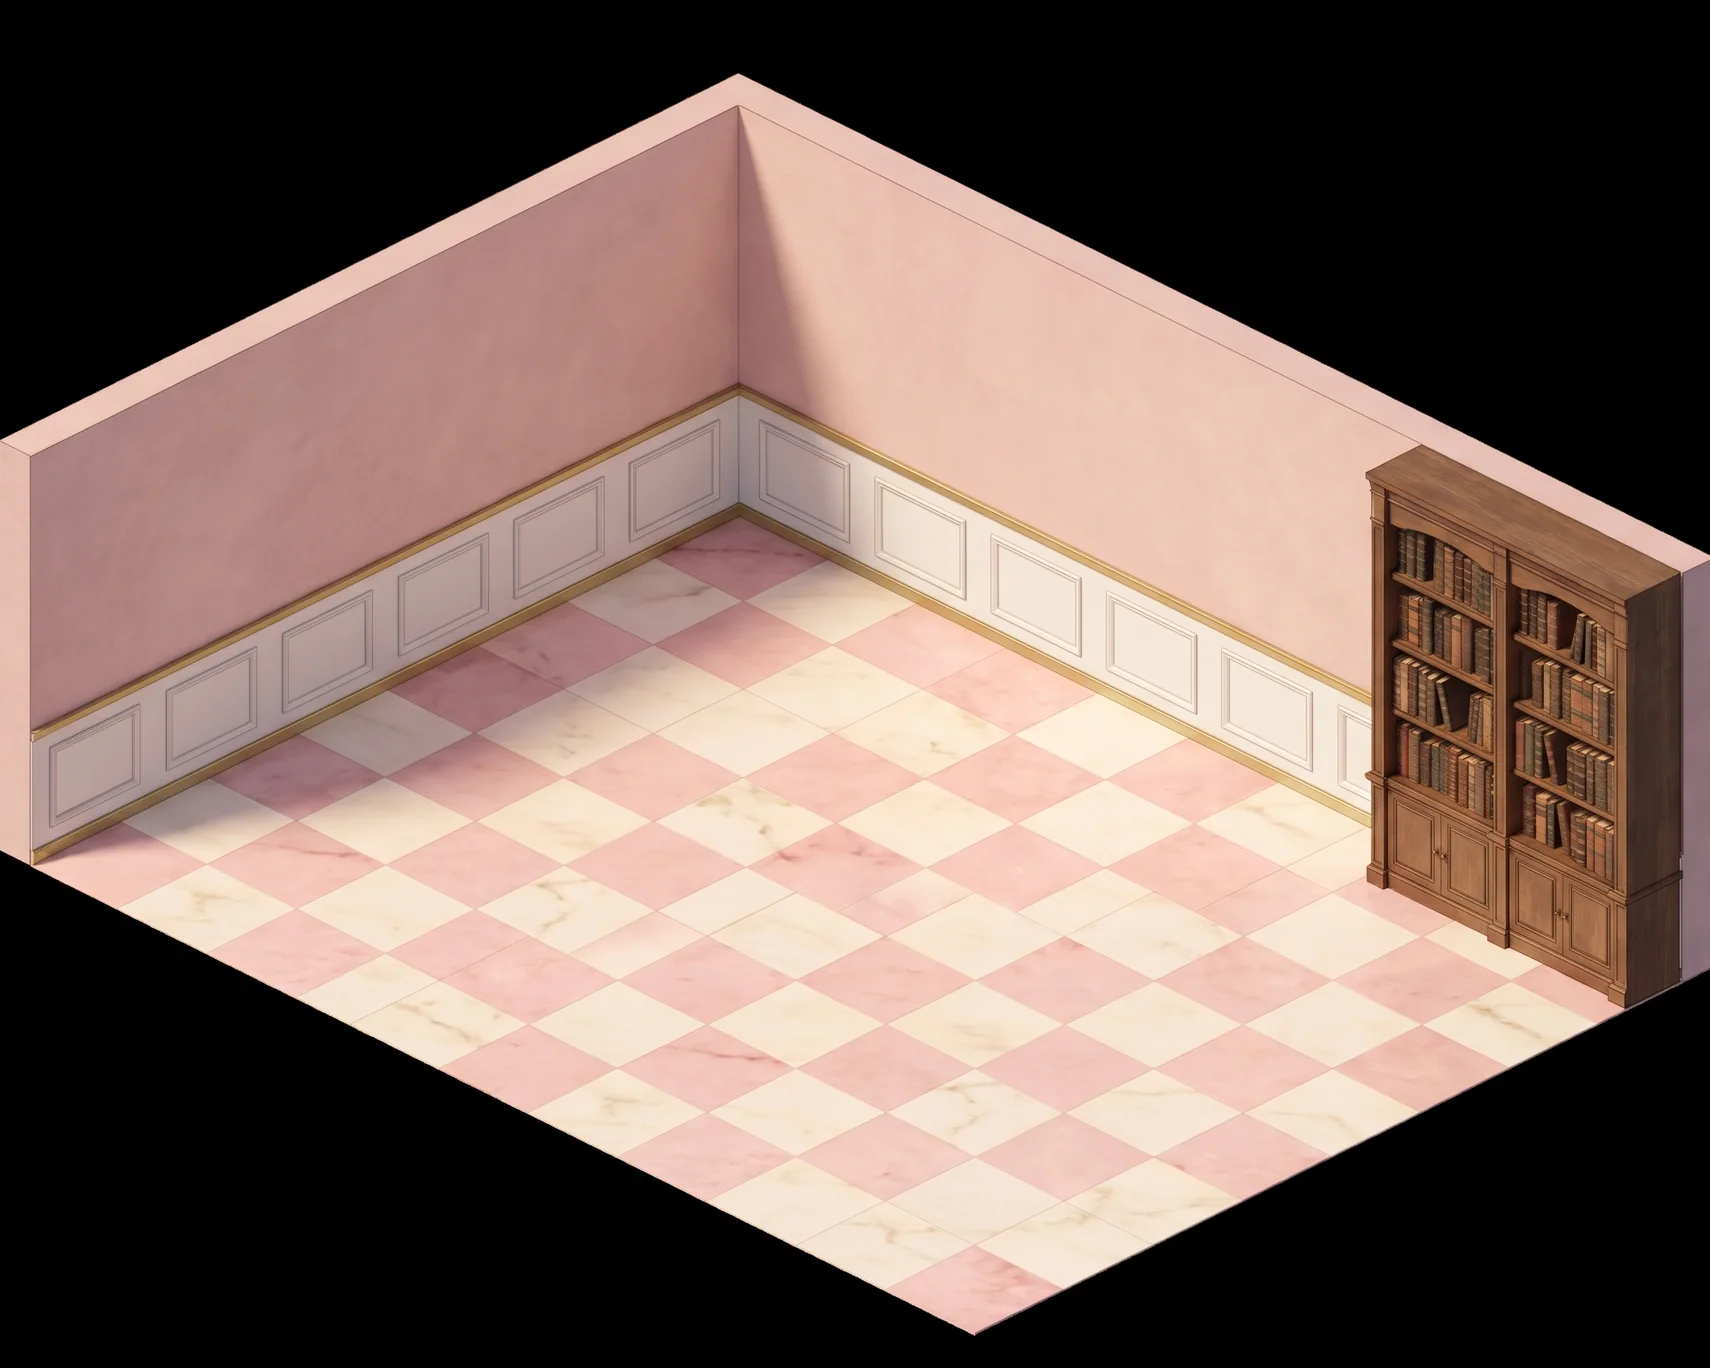
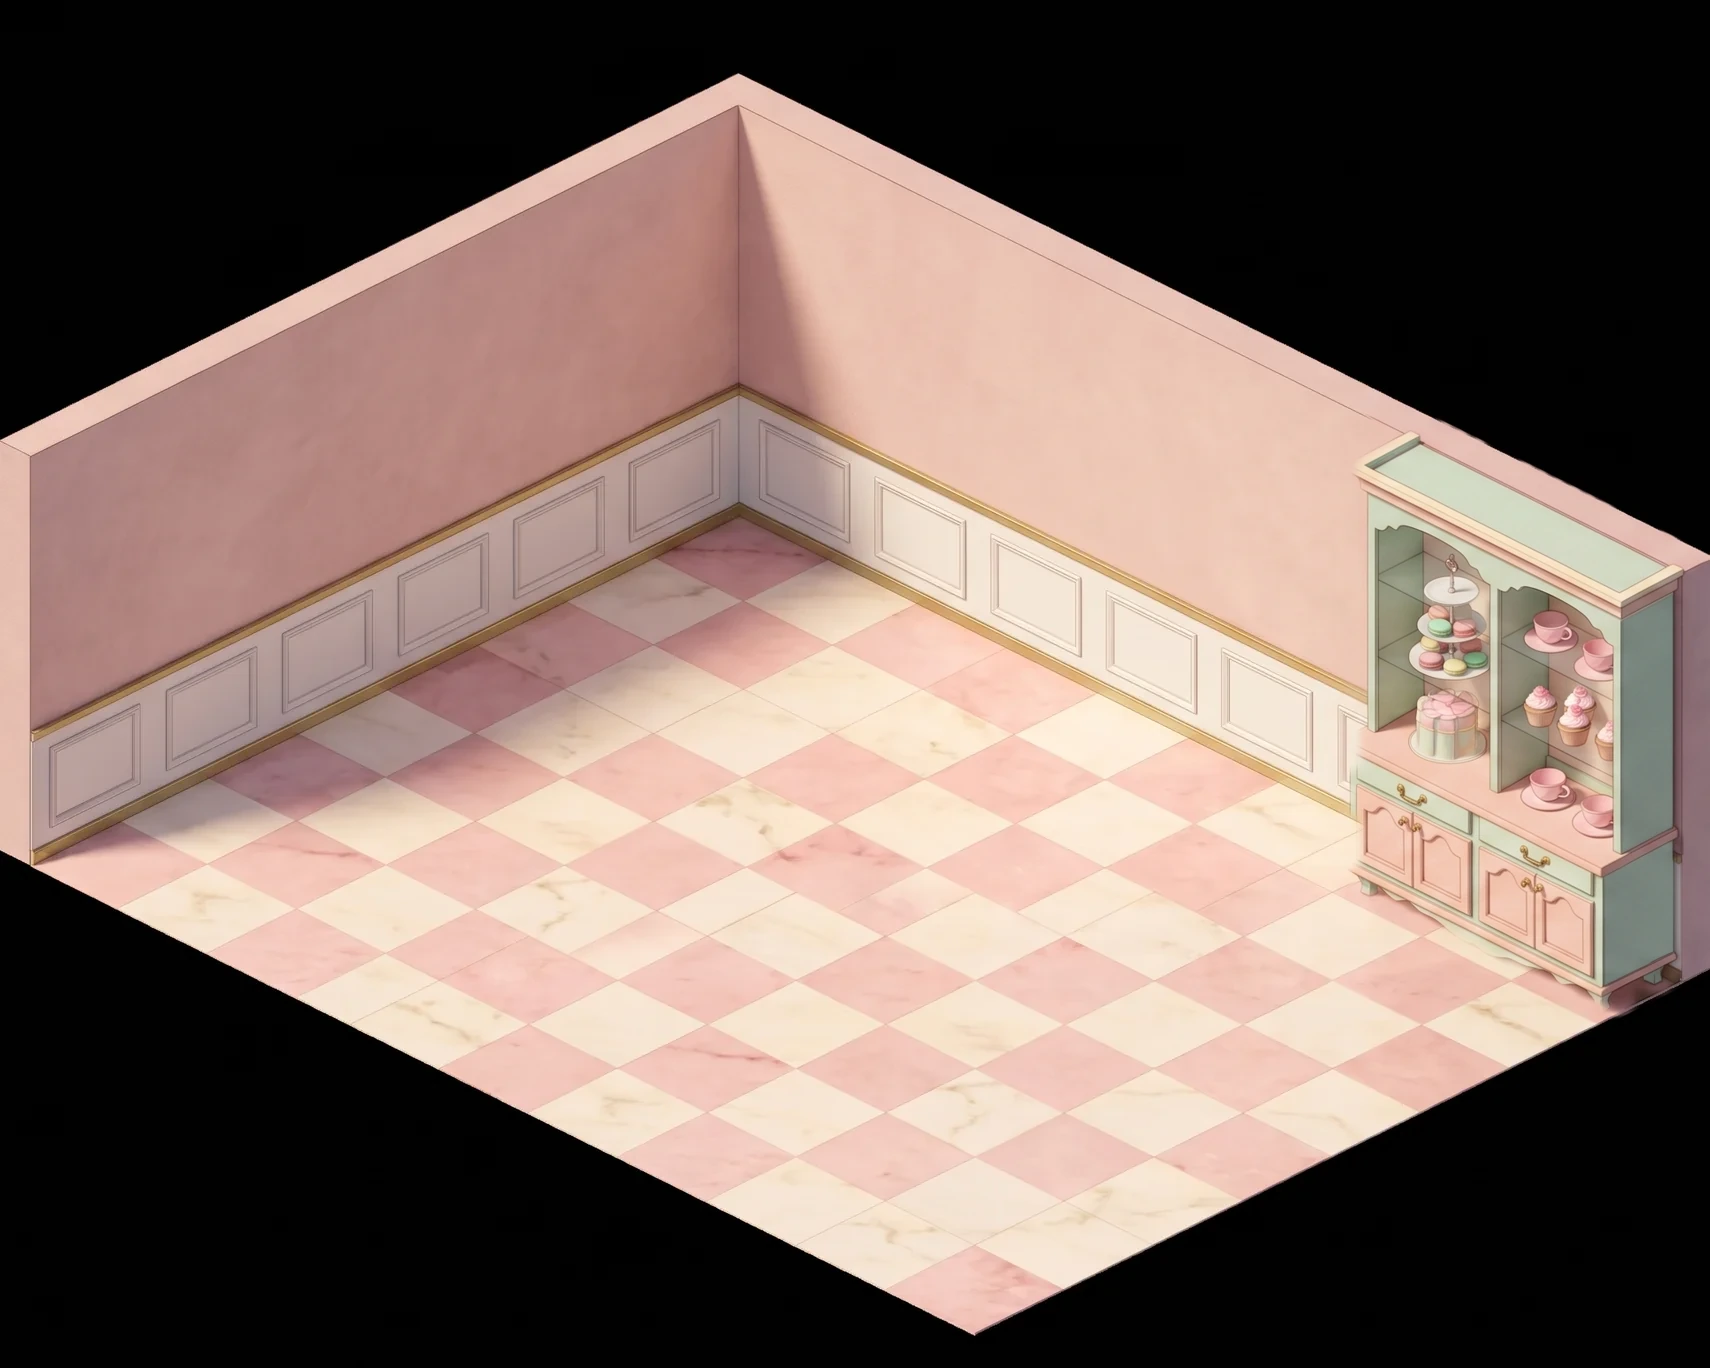
Dessert Parlor and VR Arena fit their neighbours (QA's every-room review aa3a99b, LEAD's art job)
Dessert: the dark library bookcase painted into the parlor (the old Speakeasy door, which never opens) is now a pastel mint and
blush patisserie hutch of cakes and teacups. Only that region of dsw_t1 changed, blended in, and the rest is pixel-identical.
The gold Arched Mirror (de_arch, id kept) is now the Flower Mirror: a scalloped blush-pink frame with a pastel flower crown,
same footprint and stance.

VR Arena: the white clinical shell (vrw_t1) is repainted dark navy panels with the cyan neon line, a dark hex floor with glowing
cyan lines and a glowing launch ring, the same geometry (silhouette IoU 0.989). The room is marked dark like the Arcade and
Rhythm Room, the drawn fallback skin matches, and the description is new. Pods, desk and screens stay readable.

All on Unlimited. Renders: shots/rooms3/ (not committed).

Changed region(s): [[0.7749, 0.307, 0.9918, 0.7368]]

diff --git a/quest-board/app/src/27b_skins.js b/quest-board/app/src/27b_skins.js
@@ -22,9 +22,9 @@ function acWall(w,h){var o='<rect width="'+w+'" height="'+h+'" fill="#17132a"/>'
 /* rhythm: a floor that pulses */
 function rhFloor(U,W,D){var o='<rect width="'+U*W+'" height="'+U*D+'" fill="#120a20"/>',c=["#7df9ff","#ff5ad8","#b98cff"];for(var i=0;i<W;i++)for(var j=0;j<D;j++)o+='<rect class="rhl" style="animation-delay:-'+(((i*3+j*5)%9)*.4).toFixed(1)+'s" x="'+(U*i+2)+'" y="'+(U*j+2)+'" width="'+(U-4)+'" height="'+(U-4)+'" fill="'+c[(i+j)%3]+'"/>';return o}
 function rhWall(w,h){var o='<rect width="'+w+'" height="'+h+'" fill="#23123a"/>';for(var y=0,r=0;y<h;y+=12,r++)for(var x=r%2?-6:0;x<w;x+=12)o+='<path d="M'+x+' '+(y+12)+'L'+(x+6)+' '+y+'L'+(x+12)+' '+(y+12)+'Z" fill="'+(r%2?"#2d1a4c":"#351f58")+'"/>';return o+'<rect y="'+(h-5)+'" width="'+w+'" height="3" fill="#7df9ff"/>'}
-/* vr: the one bright, clean room in the building */
-function vrFloor(U,W,D){var o='<rect width="'+U*W+'" height="'+U*D+'" fill="#eef5fa"/>',r=13,dx=r*1.732,dy=r*1.5;for(var j=0,y=0;y<U*D+r;y+=dy,j++)for(var x=j%2?dx/2:0;x<U*W+r;x+=dx){var p='';for(var a=0;a<6;a++){var t=Math.PI/3*a+Math.PI/6;p+=(a?'L':'M')+(x+r*Math.cos(t)).toFixed(1)+' '+(y+r*Math.sin(t)).toFixed(1)}o+='<path d="'+p+'Z" fill="none" stroke="#bcd8e8" stroke-width="1"/>'}return '<clipPath id="vrfc"><rect width="'+U*W+'" height="'+U*D+'"/></clipPath><g clip-path="url(#vrfc)">'+o+'</g>'}
-function vrWall(w,h){var o='<rect width="'+w+'" height="'+h+'" fill="#e4edf4"/>';for(var x=40;x<w;x+=52)o+='<rect x="'+x+'" y="0" width="2" height="'+h+'" fill="#c9d9e5"/>';return o+'<rect y="'+(h*.5)+'" width="'+w+'" height="4" fill="#58d6ff"/>'}
+/* vr: dark panels and cyan neon like its neighbours, the Arcade and the Rhythm Room (QA's every-room review, LEAD 2026-11-07) */
+function vrFloor(U,W,D){var o='<rect width="'+U*W+'" height="'+U*D+'" fill="#1f2734"/>',r=13,dx=r*1.732,dy=r*1.5;for(var j=0,y=0;y<U*D+r;y+=dy,j++)for(var x=j%2?dx/2:0;x<U*W+r;x+=dx){var p='';for(var a=0;a<6;a++){var t=Math.PI/3*a+Math.PI/6;p+=(a?'L':'M')+(x+r*Math.cos(t)).toFixed(1)+' '+(y+r*Math.sin(t)).toFixed(1)}o+='<path d="'+p+'Z" fill="none" stroke="#2f6f86" stroke-width="1"/>'}return '<clipPath id="vrfc"><rect width="'+U*W+'" height="'+U*D+'"/></clipPath><g clip-path="url(#vrfc)">'+o+'</g>'}
+function vrWall(w,h){var o='<rect width="'+w+'" height="'+h+'" fill="#1c2233"/>';for(var x=40;x<w;x+=52)o+='<rect x="'+x+'" y="0" width="2" height="'+h+'" fill="#2a3346"/>';return o+'<rect y="'+(h*.5)+'" width="'+w+'" height="4" fill="#58d6ff"/>'}
 /* bowling: retro carpet, atomic shapes */
 function bwFloor(U,W,D){var R=lfSeed(12),o='<rect width="'+U*W+'" height="'+U*D+'" fill="#27305a"/>',c=["#f7b733","#e8505b","#49c6c6"];for(var i=0;i<W*D*1.4;i++){var x=R()*U*W,y=R()*U*D,k=c[Math.floor(R()*3)];o+='<g transform="translate('+x.toFixed(0)+','+y.toFixed(0)+') rotate('+Math.floor(R()*180)+')"><ellipse rx="8" ry="2.5" fill="none" stroke="'+k+'" stroke-width="1.3"/><ellipse rx="8" ry="2.5" fill="none" stroke="'+k+'" stroke-width="1.3" transform="rotate(60)"/><circle r="1.8" fill="'+k+'"/></g>'}return o}
 function bwWall(w,h){return '<rect width="'+w+'" height="'+h+'" fill="#1f2a4d"/><rect y="'+(h*.7)+'" width="'+w+'" height="'+(h*.3)+'" fill="#c9a24a"/><rect y="'+(h*.7)+'" width="'+w+'" height="4" fill="#e8505b"/><rect y="'+(h*.7+8)+'" width="'+w+'" height="3" fill="#49c6c6"/>'}
@@ -115,10 +115,11 @@ autoRoom("boba",{name:"Boba Shop",lv:16,cost:1500,coin:12,buy:1,startLv:16,step:
  items:[PL("bo_ctr","Pastel Counter",UP_S,"bbx_ctr",2.0,.2,3.4,1.1,1,"Where the drinks get handed over.",{cust:[[3.6,2.3,-1]]}),PL("bo_urn","Tea Urns",UP_S,"bbx_urn",5.6,.2,1.5,.8,1,"Black, green, oolong."),PL("bo_pearl","Pearl Cooker",UP_S,"bbx_pearl",7.2,.2,1.1,.8,1,"Slow simmer, brown sugar."),["bo_scr","Menu Screen",UP_S,"","",0,0,0,"Cycles through today's drinks.",{fx:function(C){C.walls.push(lfFaceY(2.6,0,128,scrMenu(["Milk Tea","Taro","Matcha","Mango","Lychee","Thai Tea","Brown Sugar","Oolong"],LF.U*2.6,50)))}}],PL("bo_shelf","Tea Jar Wall",UP_S,"bbx_shelf",.15,.25,1.5,.6,1,"Every jar is a different leaf."),PL("bo_bench","Window Bench",UP_S,"bbx_bench",.2,2.4,1.1,3.4,0,"A long mint bench under the window.",{cust:[[1.8,4.2,-1]]}),PL("bo_table","Cafe Table",UP_S,"bbx_cafe",2.4,3.9,1.6,1.6,0,"Two stools and two drinks.",{cust:[[4.4,4.9,-1]]}),["bo_staff","Hire a Barista",UP_M,"","",0,0,0,"Remembers everyone's sugar level."],PL("bo_table2","Second Table",UP_S,"bbx_table",5.8,4.8,1.8,1.8,0,"Room for one more group.",{cust:[[8.1,5.7,-1]]}),PL("bo_plant","Plant Shelf",UP_S,"bbx_plant",.06,1.2,.3,1.6,1,"Trailing plants and tea jars on a wall shelf. Good for photos.",{o:{dy:-46,h:1,nosh:1,nob:1}}),/* QA: it is a wall shelf (brackets), so it hangs and casts no floor shadow */PL("bo_shake","Shaker Station",UP_M,"bbx_shake",7.05,2.39,1.3,1,1,"The noise brings people in."),PL("bo_art","Tea Prints",UP_S,"bbx_art",6.0,.05,1.8,.05,1,"Two small prints above the urns.",{o:{dy:-66,nosh:1,nob:1,h:1}}),PL("bo_neon","Neon Cup Sign",UP_S,"bbx_neon",.3,.05,1.2,.1,1,"Very pink.",{o:{dy:-80,h:1,nosh:1,dk:60}})/* high over the tea jars: the left wall's front is the side door and the back wall's end the stairs */,/* QA (Cal's use check): at the front edge it faced out of the room; against the back wall after the pearl cooker */PL("bo_fridge","Bottle Fridge",UP_S,"bbx_fridge",8.45,.2,0.9,0.8,1,"Grab and go milk tea.",{cust:[[8.9,1.7,-1]]}),PL("bo_pickup","Pickup Shelf",UP_S,"bbx_pickup",8.3,2.4,1.2,0.7,0,"Online orders, bagged and waiting.",{cust:[[8.9,3.8,-1]]}),["bo_dess","Open the Dessert Parlor",2000,"","",0,0,0,"Stairs up to a new room above.",{g:"Expansion",opens:"dessert",lv:22}]]});
 /* ---- dessert: a pink parlor, tree in the middle ---- */
 autoRoom("dessert",{name:"Dessert Parlor",lv:1,startLv:22,step:1,wall:"#f9dfe6",wain:"#fff8f2",acc:"#c79aff",fl:"t",size:[[12,9]],layout:[10,8],shell:0,coin:15,guests:3,group:"Dessert",desc:"Shaved ice, mochi and pastel everything, around a tree that is always in bloom.",
- /* the painted parlor (dsw_t1) is the room's floor and walls, its bookcase the hidden door; the drawn skin only without it */
+ /* the painted parlor (dsw_t1) is the room's floor and walls; the dark library bookcase (the old Speakeasy door, which never
+    opens now) is repainted as a pastel patisserie hutch (QA's every-room review, LEAD 2026-11-07); the drawn skin only without it */
  draw:function(C){if(window.LFSPR&&LFSPR.dsw_t1)C.shellK="dsw_t1";else roomSkin(C,{floor:dsFloor,back:dsWall,left:dsWall})},
  help:{k:"New room",t:"The Dessert Parlor is open",sub:"Pastel, pretty and right above the boba. Everyone takes a photo here.",pts:[["Build the counter","Cakes in a case bring people in."],["Then the room","The tree and the booth are the reason they stay."]]},
- items:[PL("de_case","Cake Case",UP_S,"dsx_case",2.4,.2,2.0,1.1,1,"Everything in it is lit like jewelry.",{cust:[[3.4,2.2,-1]]}),PL("de_bar","Pastry Counter",UP_M,"dsx_mixer",4.6,.2,2.9,1.0,1,"Macarons made where you can watch."),PL("de_bing","Bingsu Machine",UP_S,"dsx_bing",.3,.3,1.0,.8,1,"Snow, but sweet."),PL("de_booth","Pink Velvet Booth",UP_M,"dsx_booth",.25,3.0,1.4,3.2,0,"The best seat in the parlor.",{cust:[[2.2,4.6,-1]]}),PL("de_table","Marble Table",UP_S,"dsx_table",2.3,6.0,1.6,1.5,0,"Two chairs and a shared dessert.",{cust:[[4.4,6.8,-1]]}),PL("de_arch","Arched Mirror",UP_S,"dsx_arch",.1,.9,.1,1.5,0,"Every selfie in the building."),/* QA (Cal's use check): the towers crowded the bookcase (the hidden door); now beside the counter's end */PL("de_tower","Macaron Tower",UP_S,"dsx_tower",6.9,2.75,.9,.9,1,"Taller than it should be."),PL("de_cake","Cake Stand",UP_S,"dsx_cake",7.85,2.7,.8,.8,0,"Three tiers, all gone by noon."),PL("de_matcha","Matcha Bar",UP_M,"dsx_matcha",7.6,5.4,1.8,1.5,0,"Whisked in front of you.",{cust:[[7.0,7.2,1]]}),PL("de_shelf","Teacup Shelf",UP_S,"dsx_shelf",.05,3.4,.05,2.0,0,"Pastel cups above the booth.",{o:{dy:-68,nosh:1,nob:1,h:1}}),PL("de_lantern","Blossom Garland",UP_S,"dsx_lantern",.3,.08,2.8,.05,1,"Soft and pink along the wall.",{o:{dy:-74,h:1,nosh:1,dk:60}}),PL("de_sakura","Sakura Tree",UP_L,"dsx_sakura",4.5,3.0,1.8,1.8,0,"A blossom tree in the middle of the room. Petals never stop.",{cust:[[4.2,5.3,1],[6.8,4.2,-1]],splash:"A sakura tree in the middle of the parlor. People come in just to see it."}),PL("de_soft","Soft-Serve Machine",UP_M,"dsx_soft",1.45,0.2,0.8,0.8,1,"Pastel swirls all day.",{cust:[[1.85,1.7,-1]]})/* the back wall's far end is the painted bookcase (the hidden door) */,PL("de_mochi","Mochi Case",UP_S,"dsx_mochi",5,6.3,1.6,1.1,0,"Every color you can eat.",{cust:[[5.8,8.1,-1]]}),["de_secret","???",3000,"","",0,0,0,"The bookcase behind the case sounds hollow.",{g:"Expansion",opens:"speakeasy",lv:45,retired:1}]/* the Speakeasy is part of Lock and Key now (Cal); owners keep it */]});
+ items:[PL("de_case","Cake Case",UP_S,"dsx_case",2.4,.2,2.0,1.1,1,"Everything in it is lit like jewelry.",{cust:[[3.4,2.2,-1]]}),PL("de_bar","Pastry Counter",UP_M,"dsx_mixer",4.6,.2,2.9,1.0,1,"Macarons made where you can watch."),PL("de_bing","Bingsu Machine",UP_S,"dsx_bing",.3,.3,1.0,.8,1,"Snow, but sweet."),PL("de_booth","Pink Velvet Booth",UP_M,"dsx_booth",.25,3.0,1.4,3.2,0,"The best seat in the parlor.",{cust:[[2.2,4.6,-1]]}),PL("de_table","Marble Table",UP_S,"dsx_table",2.3,6.0,1.6,1.5,0,"Two chairs and a shared dessert.",{cust:[[4.4,6.8,-1]]}),PL("de_arch","Flower Mirror",UP_S,"dsx_arch",.1,.9,.1,1.5,0,"Every selfie in the building."),/* QA (Cal's use check): the towers crowded the bookcase (the hidden door); now beside the counter's end */PL("de_tower","Macaron Tower",UP_S,"dsx_tower",6.9,2.75,.9,.9,1,"Taller than it should be."),PL("de_cake","Cake Stand",UP_S,"dsx_cake",7.85,2.7,.8,.8,0,"Three tiers, all gone by noon."),PL("de_matcha","Matcha Bar",UP_M,"dsx_matcha",7.6,5.4,1.8,1.5,0,"Whisked in front of you.",{cust:[[7.0,7.2,1]]}),PL("de_shelf","Teacup Shelf",UP_S,"dsx_shelf",.05,3.4,.05,2.0,0,"Pastel cups above the booth.",{o:{dy:-68,nosh:1,nob:1,h:1}}),PL("de_lantern","Blossom Garland",UP_S,"dsx_lantern",.3,.08,2.8,.05,1,"Soft and pink along the wall.",{o:{dy:-74,h:1,nosh:1,dk:60}}),PL("de_sakura","Sakura Tree",UP_L,"dsx_sakura",4.5,3.0,1.8,1.8,0,"A blossom tree in the middle of the room. Petals never stop.",{cust:[[4.2,5.3,1],[6.8,4.2,-1]],splash:"A sakura tree in the middle of the parlor. People come in just to see it."}),PL("de_soft","Soft-Serve Machine",UP_M,"dsx_soft",1.45,0.2,0.8,0.8,1,"Pastel swirls all day.",{cust:[[1.85,1.7,-1]]})/* the back wall's far end is the painted patisserie hutch */,PL("de_mochi","Mochi Case",UP_S,"dsx_mochi",5,6.3,1.6,1.1,0,"Every color you can eat.",{cust:[[5.8,8.1,-1]]}),["de_secret","???",3000,"","",0,0,0,"The bookcase behind the case sounds hollow.",{g:"Expansion",opens:"speakeasy",lv:45,retired:1}]/* the Speakeasy is part of Lock and Key now (Cal); owners keep it */]});
 /* ---- speakeasy: brick, a bar, and a stage in the corner ---- */
 autoRoom("speakeasy",{name:"Speakeasy",lv:1,startLv:45,step:1,wall:"#5b2c20",wain:"#1d120c",acc:"#ffb46a",fl:"d",size:[[13,10]],layout:[11,9,.6,4.5],coin:45,guests:4,group:"Speakeasy",dark:1,desc:"No sign. Exposed brick, whiskey and live jazz if you book the band.",
  walls:function(){return ["#5b2c20","#1d120c","rgba(138,106,58,.2)"]},
@@ -149,7 +150,7 @@ autoRoom("rhythm",{door:false,doorAt:[3.0,8.4],name:"Rhythm Room",lv:1,startLv:4
   else roomSkin(C,{floor:H("rh_lights")?rhFloor:function(U,W,D){return '<rect width="'+U*W+'" height="'+U*D+'" fill="#120a20"/>'},back:rhWall,left:rhWall})},
  items:[/* QA (Cal's use check): a tile further out, so the DJ game behind it has room to play */PL("rh_pad","Dance Pads",UP_M,"rhx_pad",3.4,3.4,2.4,2.2,0,"Two pads of glowing arrows and a rail to hold.",{cust:[[3.0,4.9,1],[6.2,4.9,-1]]}),PL("rh_dj","DJ Game",UP_M,"rhx_dj",3.0,.2,1.5,1.0,1,"Two turntables and a row of lit buttons.",{cust:[[3.8,1.9,-1]]}),PL("rh_guitar","Guitar Game",UP_M,"rhx_guitar",5.0,.2,1.5,1.0,1,"Two plastic guitars with coloured fret buttons.",{cust:[[5.8,1.9,-1]]}),PL("rh_taiko","Taiko Drums",UP_M,"rhx_taiko",.25,5.1,1.5,1.5,0,"Two barrel drums and a pair of sticks on a cord.",{cust:[[2.4,5.8,-1]]}),PL("rh_eq","Equalizer Wall",UP_S,"rhx_eq",3.2,.05,3.0,.05,1,"Bars that bounce above the machines.",{o:{dy:-62,nosh:1,nob:1,h:1}}),PL("rh_mirror","Mirror Wall",UP_S,"rhx_mirror",.1,.6,.1,3.8,0,"Floor-to-ceiling mirrors with neon edges."),PL("rh_drum","Drum Machine",UP_M,"rhx_drum",6.9,0.2,1.5,1,1,"A ring of electronic pads and a stool.",{cust:[[7.65,1.9,-1]]}),PL("rh_keys","Keyboard Cabinet",UP_M,"rhx_keys",8.5,0.2,1.2,1,1,"Neon keys, falling notes.",{cust:[[9.1,1.9,-1]]}),/* QA: it stood in front of the mirror wall; now on the open right side facing the pads */PL("rh_bench","Spectator Bench",UP_S,"rhx_bench",9.3,3.3,.8,2.4,1,"A padded violet bench facing the pads.",{cust:[[8.6,4.6,-1]]}),PL("rh_tower","Speaker Tower",UP_S,"rhx_tower",1.7,.2,0.9,0.9,0,"A tall cabinet of stacked woofers.",{cust:[[2.2,1.7,1]]}),PL("rh_trophy","Trophy Case",UP_S,"rhx_trophy",.2,6.9,0.7,0.9,0,"High scores get real gold.",{cust:[[1.5,7.5,1]]}),["rh_lights","Pulsing Floor",UP_L,"","",0,0,0,"The whole floor lights up in time.",{light:[5,4,20,"#7df9ff",3.4,.5],splash:"The floor is alive. Every tile pulses with the music."}]]});
 /* ---- vr: bright, clean, a little too quiet ---- */
-autoRoom("vr",{door:false,doorAt:[.7,3.0],staff:[["vr_desk",RSK]],name:"VR Arena",lv:1,startLv:44,step:1,wall:"#e4edf4",wain:"#cfdde8",acc:"#58d6ff",fl:"t",size:[[12,9]],layout:[10,8],shell:0,coin:35,guests:3,group:"VR",desc:"Spotless white and blue. Headsets on, arms flailing.",
+autoRoom("vr",{door:false,doorAt:[.7,3.0],staff:[["vr_desk",RSK]],name:"VR Arena",lv:1,startLv:44,step:1,wall:"#1c2233",wain:"#141a28",acc:"#58d6ff",fl:"t",size:[[12,9]],layout:[10,8],shell:0,coin:35,guests:3,group:"VR",dark:1,desc:"Dark panels, cyan light, a glowing launch ring. Headsets on, arms flailing.",
 floor:function(){return window.LFSPR&&LFSPR.vrw_t1?null:undefined},
  draw:function(C){if(window.LFSPR&&LFSPR.vrw_t1)C.shellK="vrw_t1";else roomSkin(C,{floor:vrFloor,back:vrWall,left:vrWall});
   /* a clerk behind the check-in desk (QA) */
